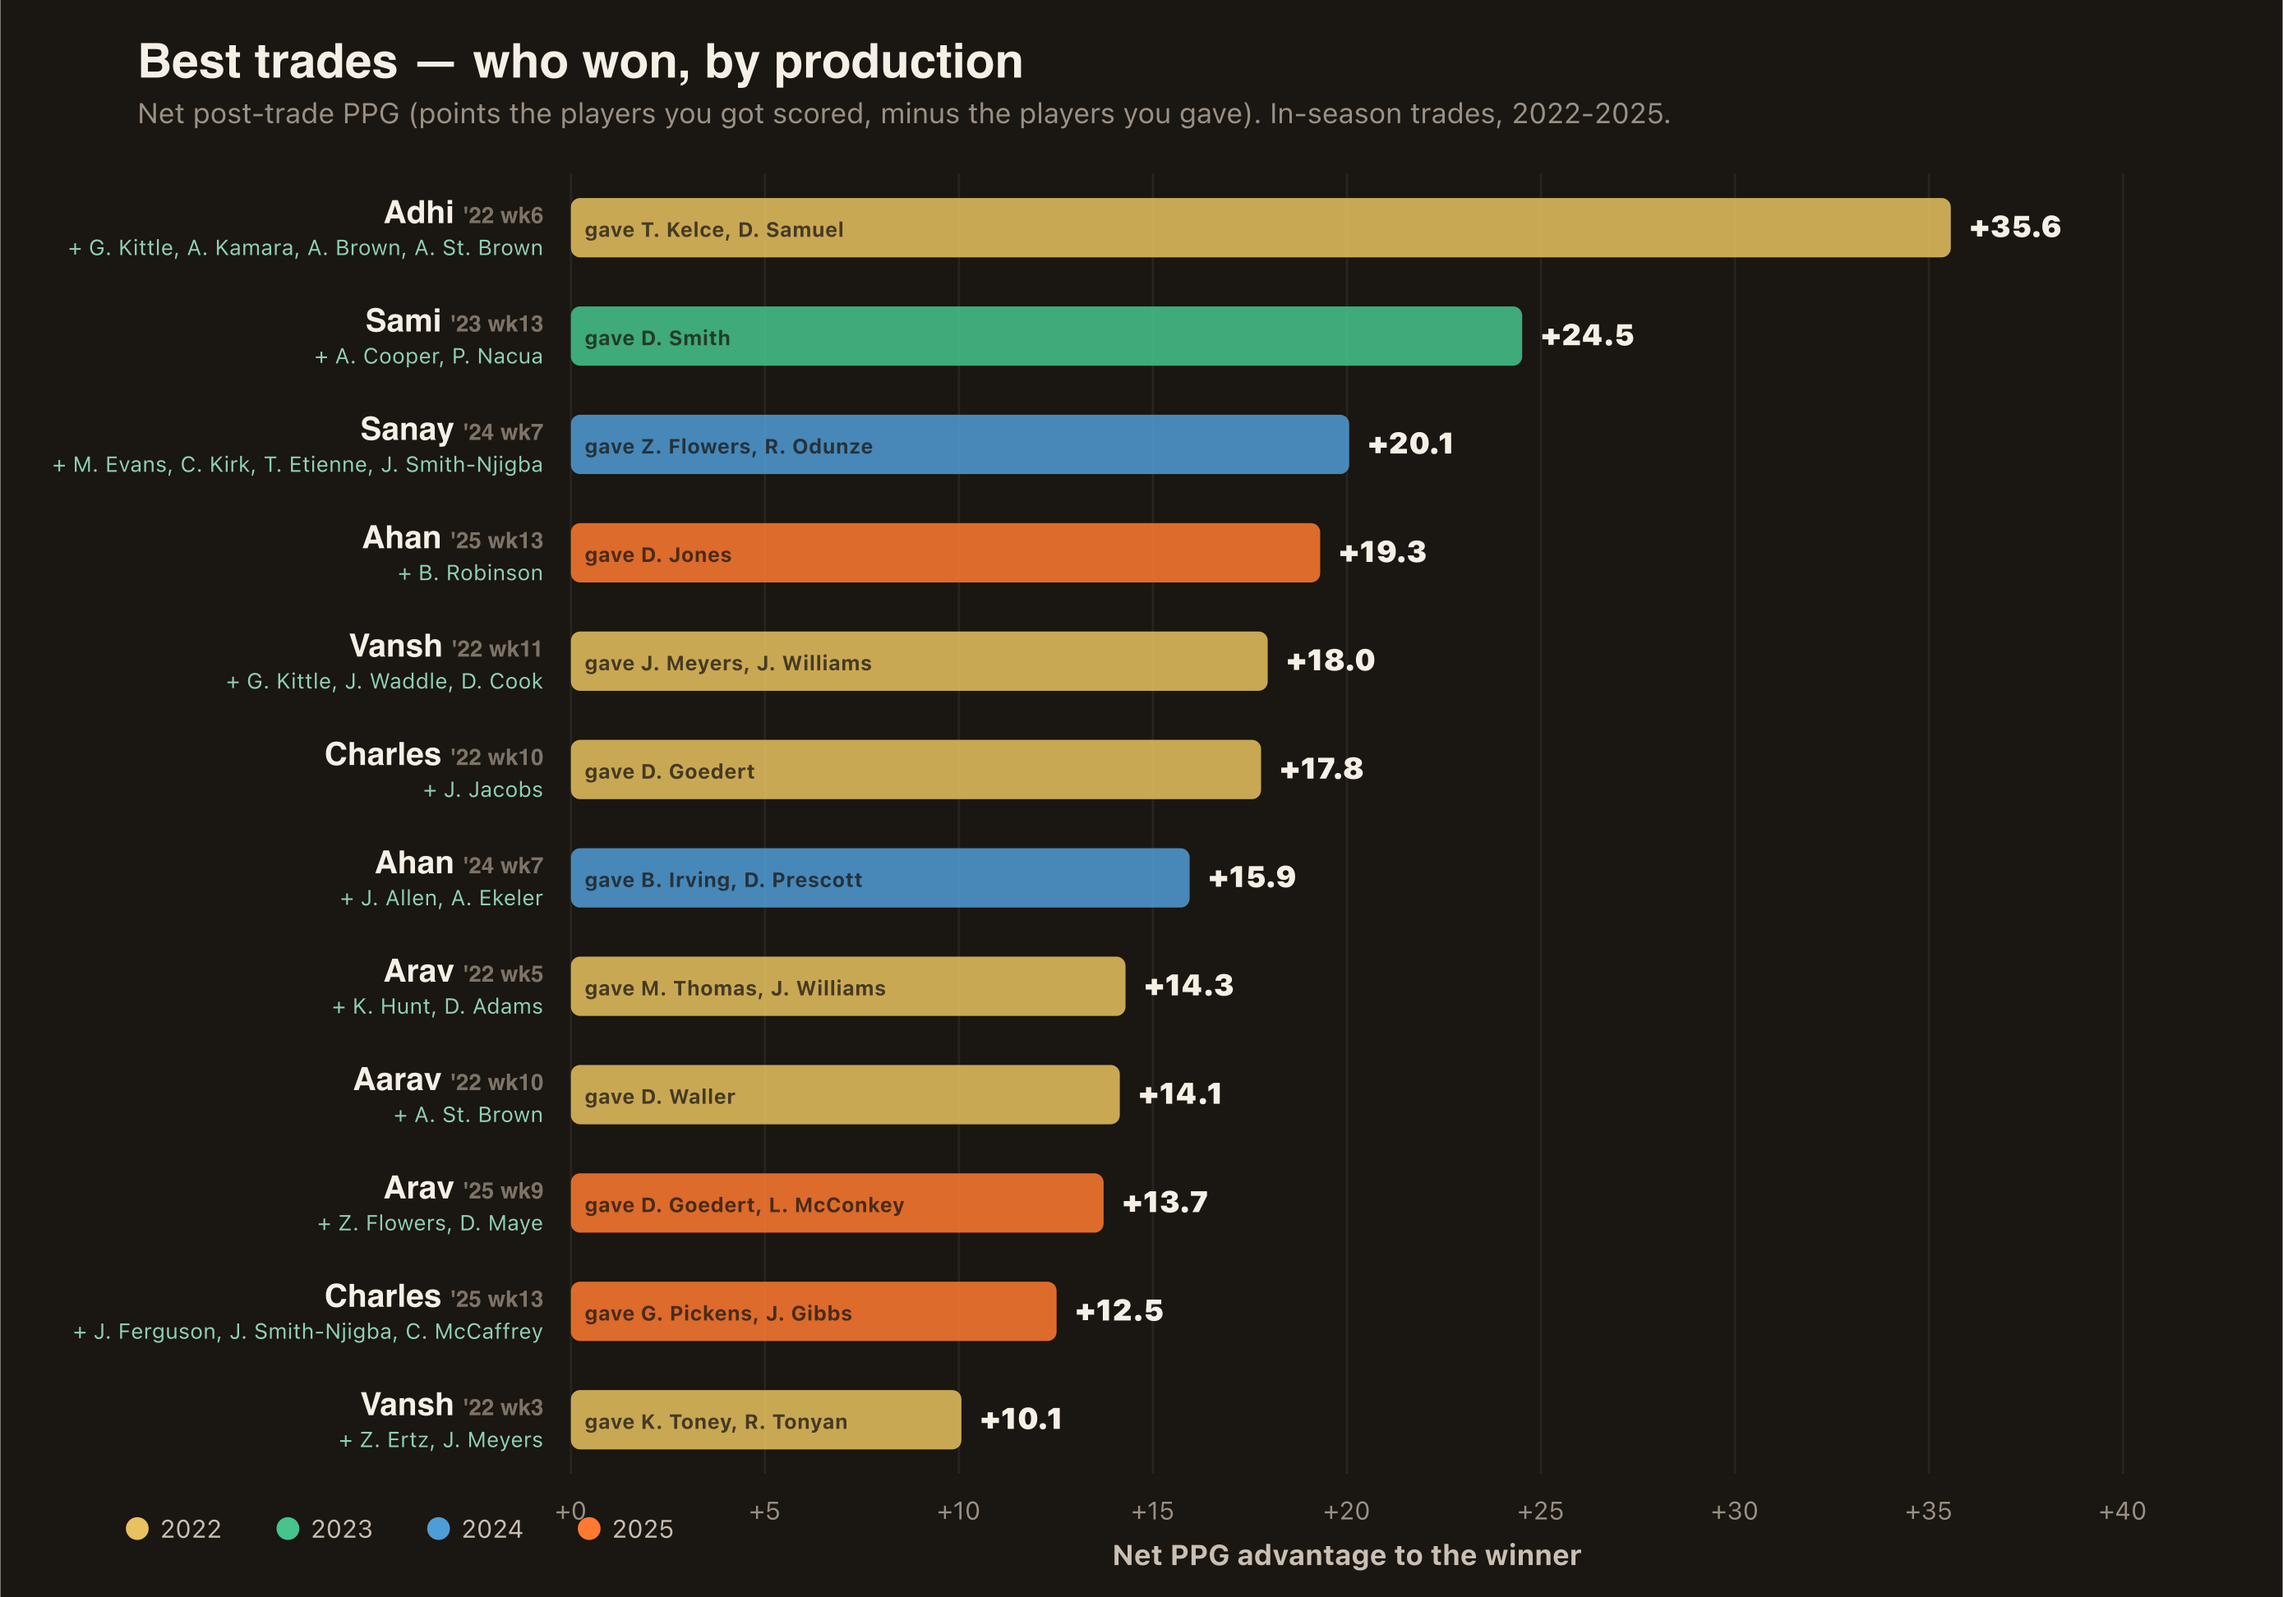
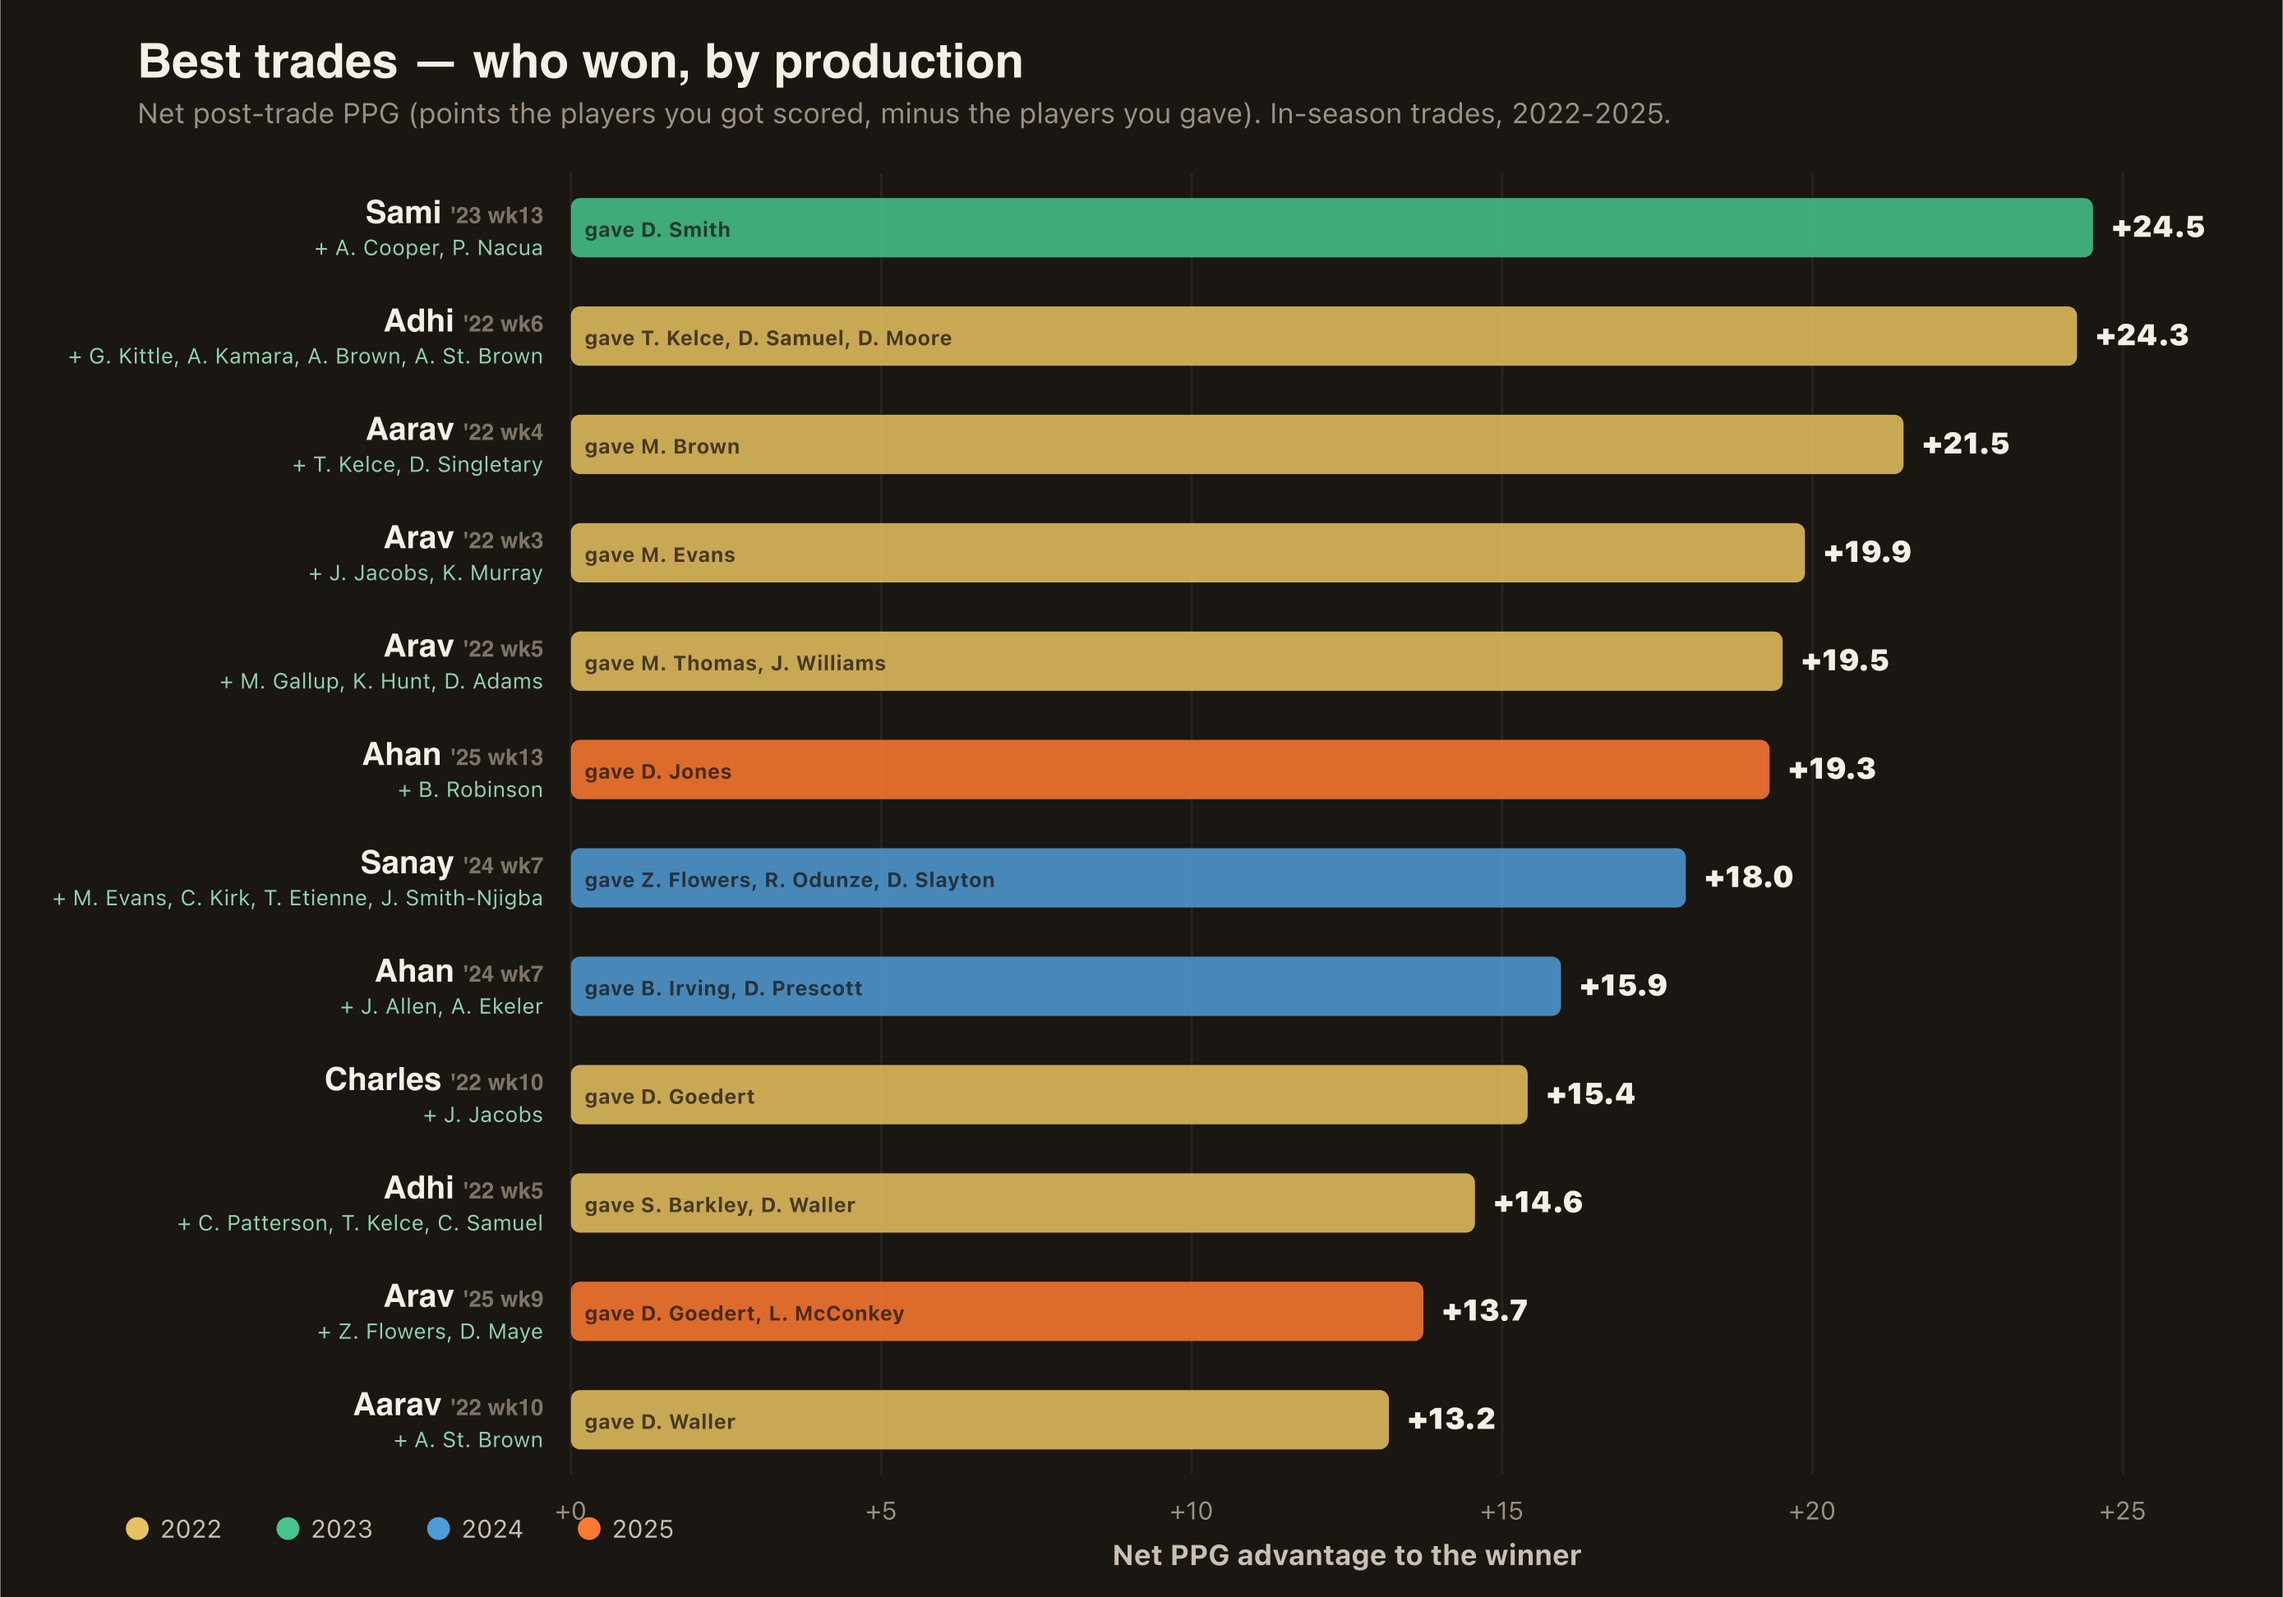
Fix trade contents: include all crossed players, not just sticky ones
The stickiness filter was applied to trade CONTENTS, dropping throw-in players and
undercounting multi-player trades. Now stickiness only CONFIRMS a trade happened;
contents = all players that crossed directly between the two teams that week.
Fixes e.g. Viraaj's 2022 trade (was mis-shown as ~fair; he actually gave Josh
Jacobs + Kyler Murray for Mike Evans → -19.9 PPG). Ahan's wk13 2025 now correctly
shows two trades (Charles 2-for-3, Sami Bijan-for-Daniel-Jones). Regenerated the
trade-skill and best-trades plots. (PPG already counts bench weeks — full player
production, not starters-only.)

Claude-Session: https://claude.ai/code/session_01VaNcxgMhJiaf81mE2B7XbF

diff --git a/lib/boxscore-stats.ts b/lib/boxscore-stats.ts
@@ -170,8 +170,11 @@ export type Trade = { season: number; week: number; a: string; b: string; aGot: 
 
 // Detect in-season trades from weekly roster snapshots: a reciprocal exchange
 // where, from one week to the next, team A gains a player last on team B AND
-// team B gains one last on A. A "stickiness" guard (received player stays on the
-// new roster >= 2 snapshots) filters out coincidental crossing waiver claims.
+// team B gains one last on A. A "stickiness" guard (a received player stays >= 2
+// snapshots) is used only to CONFIRM a trade happened (filtering coincidental
+// crossing waiver claims); once confirmed, ALL players that crossed directly
+// between the two teams that week are included as the trade's contents — so
+// throw-in players that were later dropped still show up.
 // Note: this is a heuristic — ESPN doesn't expose a transaction log, and it
 // cannot see pre-season/draft-day trades (no roster snapshot before week 1).
 // Validated against Sleeper's authoritative 2024 log: recovers both in-season
@@ -215,9 +218,14 @@ export function allTrades(): Trade[] {
       };
       for (let a = 0; a < teams.length; a++) for (let b = a + 1; b < teams.length; b++) {
         const A = teams[a], C = teams[b];
-        const aFromC = gained[A].filter((id) => prev[C].has(id) && sticks(A, id));
-        const cFromA = gained[C].filter((id) => prev[A].has(id) && sticks(C, id));
-        if (aFromC.length && cFromA.length) {
+        // all players that crossed directly between A and C this week (full contents)
+        const aFromCAll = gained[A].filter((id) => prev[C].has(id));
+        const cFromAAll = gained[C].filter((id) => prev[A].has(id));
+        // confirm it's a real trade (not coincidental waiver crossings): a sticky
+        // player each way.
+        const confirmed = aFromCAll.some((id) => sticks(A, id)) && cFromAAll.some((id) => sticks(C, id));
+        const aFromC = aFromCAll, cFromA = cFromAAll;
+        if (confirmed && aFromC.length && cFromA.length) {
           out.push({
             season, week: w,
             a: personForTeamWeek(season, A, w, tp.get(A) ?? ""),
